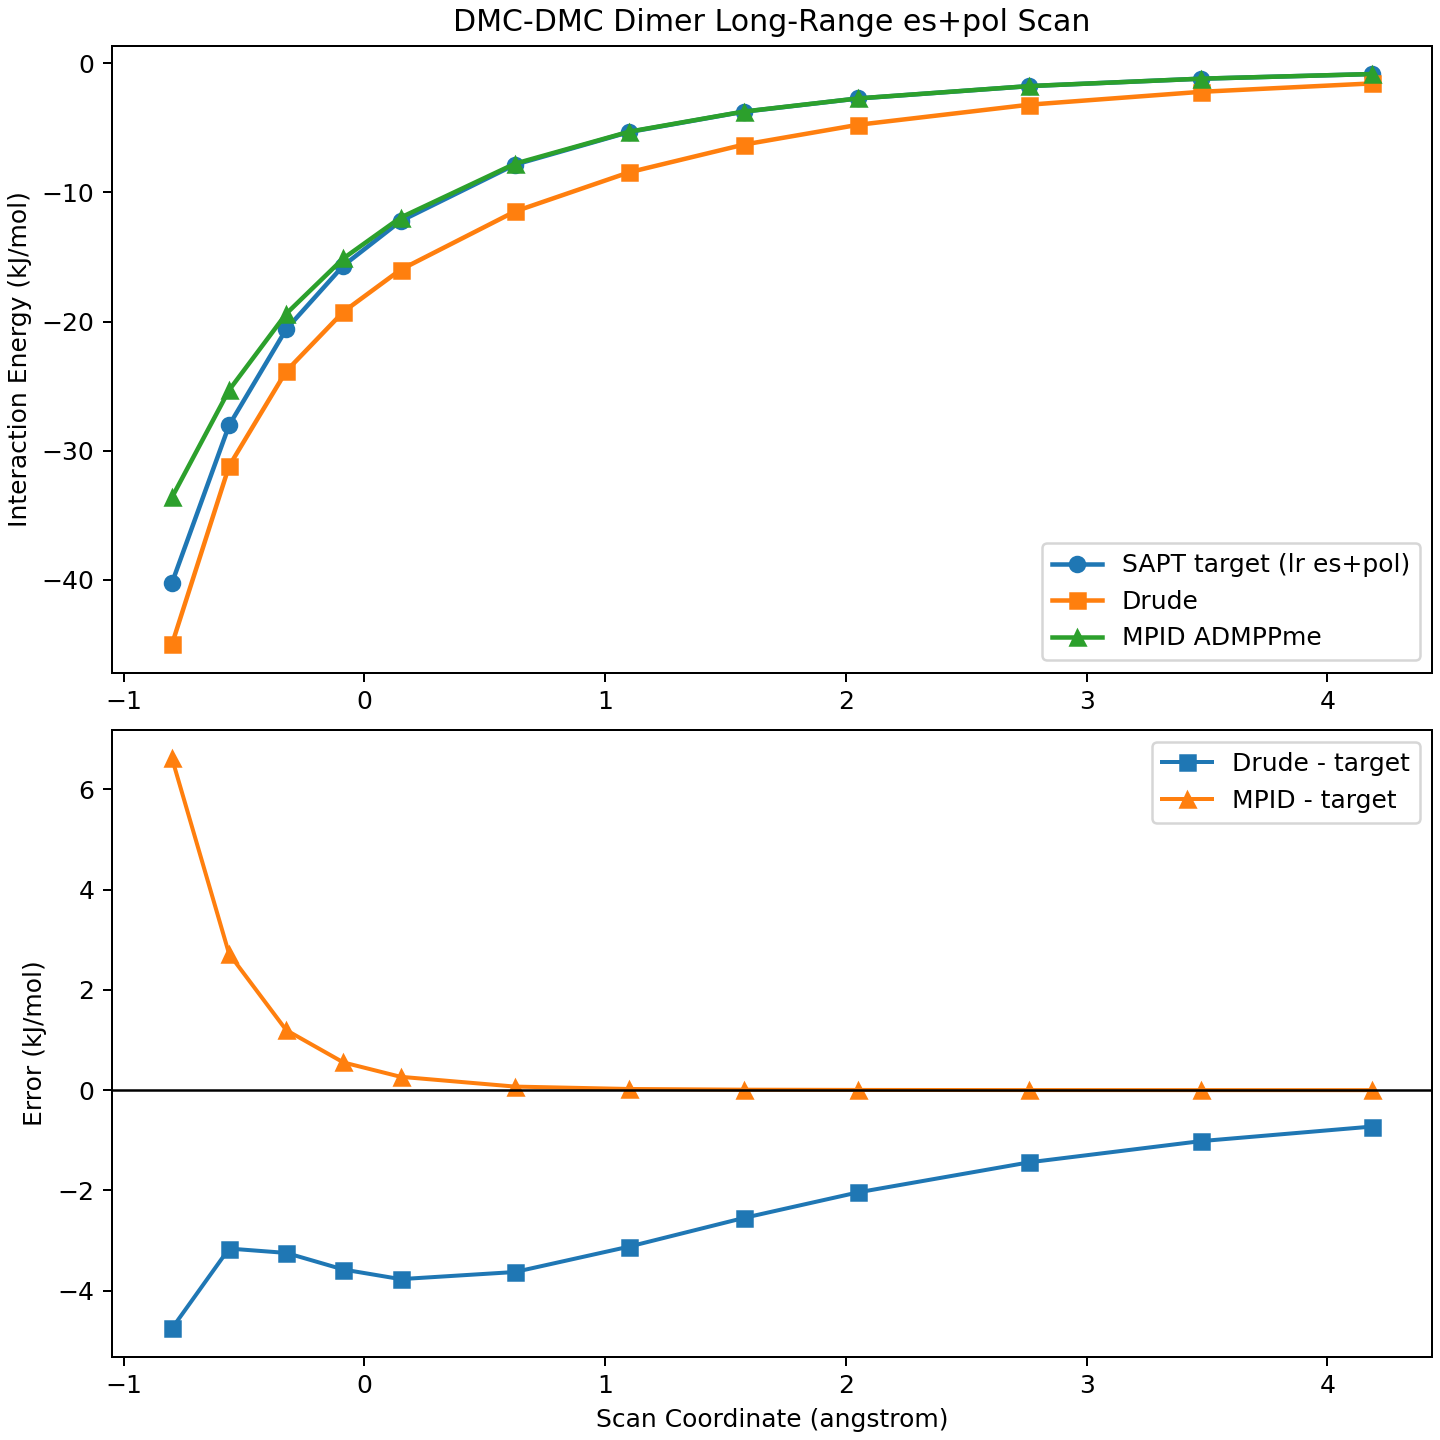
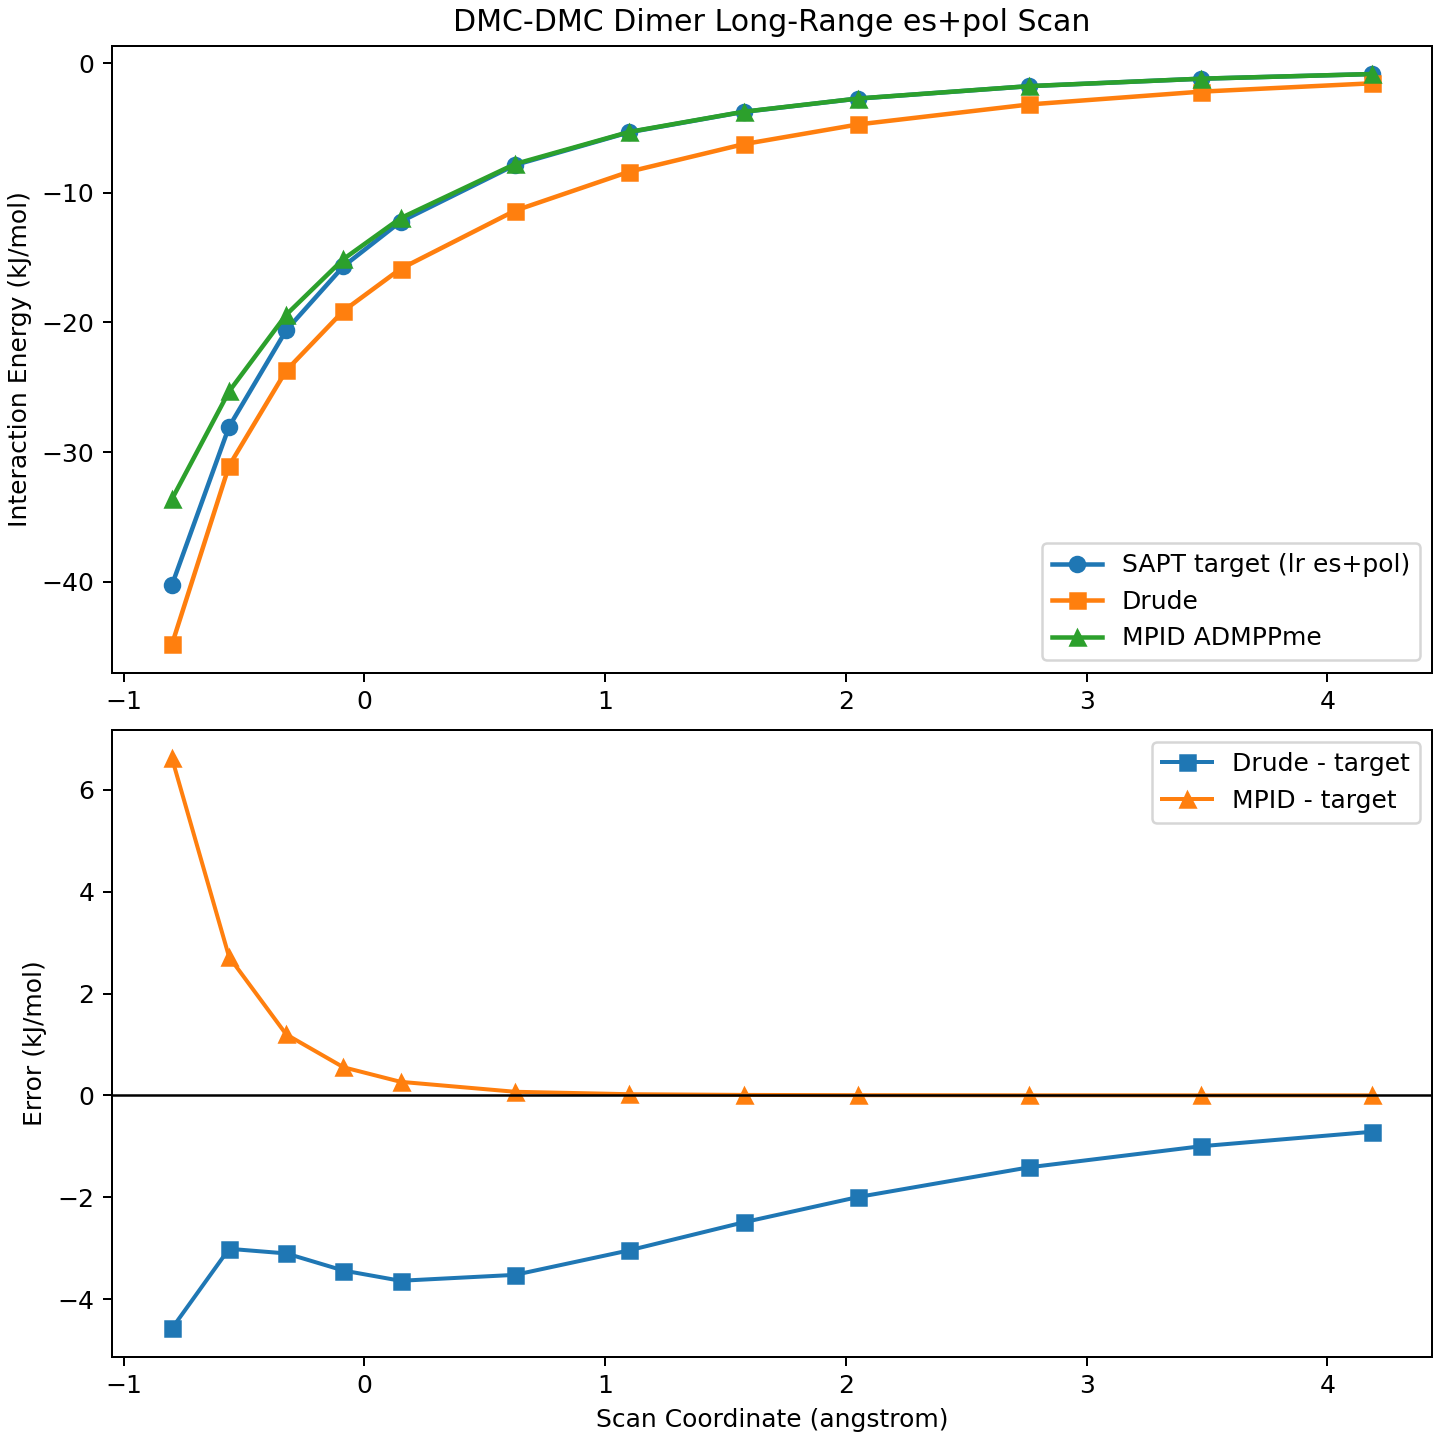
Run formal bottom-up Drude fit for DMC

diff --git a/drude_dmc_bottomup/scripts/fit_dmc_drude_espol.py b/drude_dmc_bottomup/scripts/fit_dmc_drude_espol.py
@@ -1,9 +1,11 @@
 from __future__ import annotations
 
 import argparse
+import csv
 import json
 from pathlib import Path
 
+import matplotlib.pyplot as plt
 import numpy as np
 import openmm.app as app
 import openmm.unit as unit
@@ -39,9 +41,9 @@ def parse_args() -> argparse.Namespace:
     parser.add_argument("--dimer-weight", type=float, default=1.0)
     parser.add_argument("--monomer-dipole-weight", type=float, default=0.5)
     parser.add_argument("--monomer-polar-weight", type=float, default=0.5)
-    parser.add_argument("--maxiter", type=int, default=30)
-    parser.add_argument("--output-dir", default=str(OUTPUT / "fit"))
-    parser.add_argument("--prefix", default="dmc_drude_fit")
+    parser.add_argument("--maxiter", type=int, default=100)
+    parser.add_argument("--output-dir", default=str(OUTPUT / "fit_joint"))
+    parser.add_argument("--prefix", default="dmc_drude_joint")
     return parser.parse_args()
 
 
@@ -98,6 +100,38 @@ def load_monomer_targets(path: Path) -> dict | None:
         "dipole_debye": np.asarray(dipole, dtype=float),
         "polarizability_tensor_nm3": np.asarray(polar, dtype=float),
     }
+
+
+def write_curve_csv(path: Path, shifts: np.ndarray, target: np.ndarray, predicted: np.ndarray) -> None:
+    with open(path, "w", encoding="ascii", newline="") as handle:
+        writer = csv.writer(handle)
+        writer.writerow(["shift_angstrom", "target_kj_mol", "predicted_kj_mol", "error_kj_mol"])
+        for row in zip(shifts, target, predicted, predicted - target):
+            writer.writerow([f"{float(value):.8f}" for value in row])
+
+
+def plot_curve_png(path: Path, shifts: np.ndarray, target: np.ndarray, predicted: np.ndarray) -> None:
+    order = np.argsort(shifts)
+    x = shifts[order]
+    target_ord = target[order]
+    pred_ord = predicted[order]
+    err_ord = pred_ord - target_ord
+
+    fig, (ax0, ax1) = plt.subplots(2, 1, figsize=(8, 8), constrained_layout=True)
+    ax0.plot(x, target_ord, marker="o", linewidth=1.8, label="SAPT target (lr es+pol)")
+    ax0.plot(x, pred_ord, marker="s", linewidth=1.8, label="Drude fit")
+    ax0.set_ylabel("Interaction Energy (kJ/mol)")
+    ax0.set_title("DMC-DMC Bottom-Up Drude Fit")
+    ax0.legend()
+
+    ax1.plot(x, err_ord, marker="s", linewidth=1.6, label="Drude - target")
+    ax1.axhline(0.0, color="black", linewidth=1.0)
+    ax1.set_xlabel("Scan Coordinate (angstrom)")
+    ax1.set_ylabel("Error (kJ/mol)")
+    ax1.legend()
+
+    fig.savefig(path, dpi=180)
+    plt.close(fig)
 
 
 def main() -> None:
@@ -177,6 +211,10 @@ def main() -> None:
     final_curve = evaluate_curve(topology, targets, fitted, args.platform, args.precision)
     finite_mask = np.isfinite(final_curve)
     final_dimer_rmse = float(np.sqrt(np.mean((final_curve[finite_mask] - target[finite_mask]) ** 2))) if np.any(finite_mask) else float("nan")
+    curve_csv = output_dir / f"{args.prefix}_{args.target_mode}_curve.csv"
+    curve_png = output_dir / f"{args.prefix}_{args.target_mode}_curve.png"
+    write_curve_csv(curve_csv, targets["shift_angstrom"], target, final_curve)
+    plot_curve_png(curve_png, targets["shift_angstrom"], target, final_curve)
     monomer_summary = None
     if monomer_targets is not None:
         response = evaluate_monomer_response(
@@ -215,6 +253,8 @@ def main() -> None:
             "objective_components": best_components,
             "final_dimer_rmse_kj_mol": final_dimer_rmse,
             "num_finite_dimer_points": int(np.count_nonzero(finite_mask)),
+            "curve_csv": str(curve_csv.resolve()),
+            "curve_png": str(curve_png.resolve()),
             "monomer": monomer_summary,
             "fitted_model": str(fitted_path.resolve()),
         },

diff --git a/drude_dmc_bottomup/scripts/compare_mpid_vs_drude_dimer_scan.py b/drude_dmc_bottomup/scripts/compare_mpid_vs_drude_dimer_scan.py
@@ -20,7 +20,7 @@ SCRIPTS = ROOT / "scripts"
 INPUTS = ROOT / "inputs"
 OUTPUT = ROOT / "output"
 
-DEFAULT_DRUDE_MODEL = ROOT / "output" / "fit_smoke_joint" / "fit_smoke_joint_lr_espol_model.json"
+DEFAULT_DRUDE_MODEL = ROOT / "output" / "fit_joint" / "dmc_drude_joint_lr_espol_model.json"
 DEFAULT_TARGETS = INPUTS / "targets" / "dmc_dimer_batch000_targets.npz"
 DEFAULT_MONOMER_PDB = INPUTS / "structures" / "DMC.pdb"
 DEFAULT_DIMER_PDB = INPUTS / "structures" / "dimer_001_DMC_DMC.pdb"

diff --git a/drude_dmc_bottomup/README.md b/drude_dmc_bottomup/README.md
@@ -63,25 +63,7 @@ This reports:
 python scripts/run_dmc_drude_dimer_scan.py --target-mode lr_espol
 ```
 
-3b. Compare the fitted Drude scan against the MPID long-range `ADMPPme` scan and make a PNG:
-
-```bash
-python scripts/compare_mpid_vs_drude_dimer_scan.py
-```
-
-This uses:
-
-- the fitted Drude model in `output/fit_smoke_joint/fit_smoke_joint_lr_espol_model.json`
-- the local MPID XML in `inputs/mpid/phyneo_ecl.xml`
-- the same DMC-DMC bottom-up target bundle in `inputs/targets/dmc_dimer_batch000_targets.npz`
-
-Outputs go to:
-
-- `output/mpid_vs_drude_dimer_scan/*.csv`
-- `output/mpid_vs_drude_dimer_scan/*.json`
-- `output/mpid_vs_drude_dimer_scan/*.png`
-
-4. Fit a minimal set of Drude scaling parameters:
+4. Fit a minimal set of Drude scaling parameters against the SAPT dimer target and the QM monomer target:
 
 ```bash
 python scripts/fit_dmc_drude_espol.py --target-mode lr_espol
@@ -94,6 +76,31 @@ The first fitting pass only adjusts:
 - `thole_scale`
 
 It keeps the fixed charges from `DMC.json`.
+
+This writes:
+
+- `output/fit_joint/dmc_drude_joint_lr_espol_model.json`
+- `output/fit_joint/dmc_drude_joint_lr_espol_summary.json`
+- `output/fit_joint/dmc_drude_joint_lr_espol_curve.csv`
+- `output/fit_joint/dmc_drude_joint_lr_espol_curve.png`
+
+4b. Compare the fitted Drude scan against the MPID long-range `ADMPPme` scan and make a PNG:
+
+```bash
+python scripts/compare_mpid_vs_drude_dimer_scan.py
+```
+
+This uses:
+
+- the fitted Drude model in `output/fit_joint/dmc_drude_joint_lr_espol_model.json`
+- the local MPID XML in `inputs/mpid/phyneo_ecl.xml`
+- the same DMC-DMC bottom-up target bundle in `inputs/targets/dmc_dimer_batch000_targets.npz`
+
+Outputs go to:
+
+- `output/mpid_vs_drude_dimer_scan/*.csv`
+- `output/mpid_vs_drude_dimer_scan/*.json`
+- `output/mpid_vs_drude_dimer_scan/*.png`
 
 5. Posterior-only bulk validation:
 
@@ -114,7 +121,7 @@ numerical stress test, not as a production liquid model.
 6. Exploratory hybrid bulk MD:
 
 ```bash
-python scripts/run_dmc_drude_hybrid_bulk.py --param-file output/fit_smoke_joint/fit_smoke_joint_lr_espol_model.json
+python scripts/run_dmc_drude_hybrid_bulk.py --param-file output/fit_joint/dmc_drude_joint_lr_espol_model.json
 ```
 
 This path combines:
@@ -148,5 +155,5 @@ It requires access to `openmm-phyneo-plugin`. The script looks for either:
 This directory is intentionally bottom-up only:
 
 - dimer SAPT data drives the main target
-- monomer QM targets can be inserted into `inputs/targets/monomer_targets.template.json`
+- monomer QM targets are read from `inputs/targets/monomer_targets.template.json`
 - bulk runs are for posterior validation, not parameter optimization